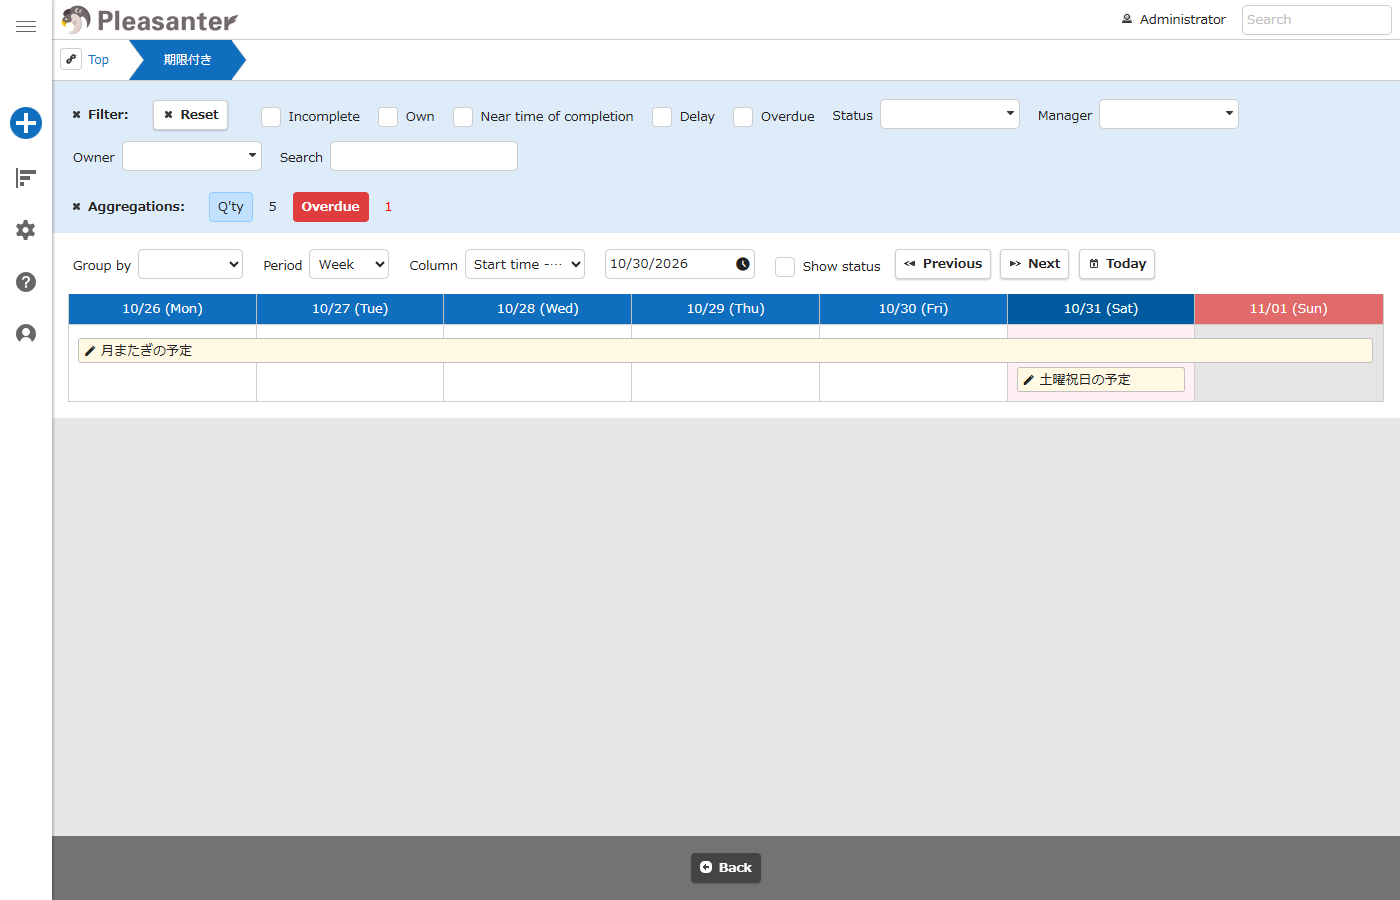
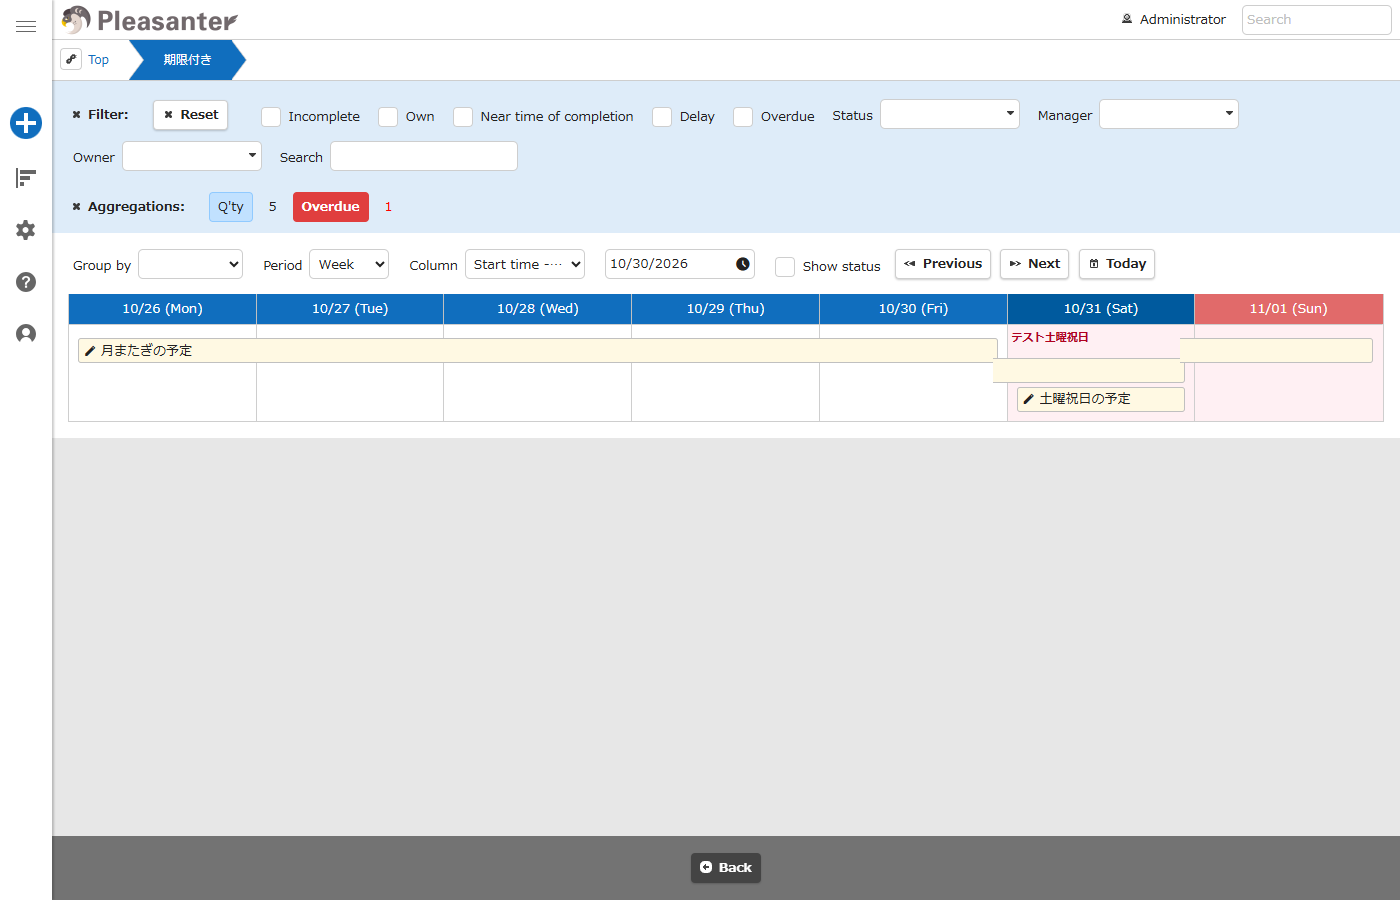
標準カレンダーの週表示に祝日名を出し、/p で出力先を決められるようにする
- 週表示のセル先頭（::before）に祝日名を出す。月をまたぐ日にも色を付ける
- generate の出力先を /p（本体フォルダ）または兄弟の Implem.Pleasanter から決める
- 実機（Docker）で標準 359 項目・FullCalendar 251 項目を再確認

Changed region(s): [[0.7064, 0.3422, 1.0, 0.4667]]

diff --git a/src/CalendarStyleCreator/Options.cs b/src/CalendarStyleCreator/Options.cs
@@ -12,8 +12,8 @@ public sealed record Options(string Action, IReadOnlyList<string> CsvPaths, IRea
     public const string IcalBasicPasswordVariable = "CALENDARSTYLE_ICAL_BASIC_PASSWORD";
     public const string PleasanterApiKeyVariable = "CALENDARSTYLE_PLEASANTER_API_KEY";
 
-    private static readonly string[] ValueOptions = ["config", "csv", "calendar-id", "ical-url", "from", "to", "name", "site-id", "output", "url", "holiday-bg", "saturday-bg", "holiday-text", "saturday-text"];
-    private static readonly string[] PathOptions = ["config", "csv", "output"];
+    private static readonly string[] ValueOptions = ["config", "p", "csv", "calendar-id", "ical-url", "from", "to", "name", "site-id", "output", "url", "holiday-bg", "saturday-bg", "holiday-text", "saturday-text"];
+    private static readonly string[] PathOptions = ["config", "p", "csv", "output"];
 
     /// <summary>優先順位は コマンドライン &gt; 設定ファイル（/config）&gt; 既定値。</summary>
     public static Options Parse(string[] args)
@@ -52,13 +52,26 @@ public sealed record Options(string Action, IReadOnlyList<string> CsvPaths, IRea
 
         var defaults = config.Theme ?? new CalendarTheme();
         var theme = new CalendarTheme(V("holiday-bg") ?? defaults.HolidayBackground, V("saturday-bg") ?? defaults.SaturdayBackground, V("holiday-text") ?? defaults.HolidayText, V("saturday-text") ?? defaults.SaturdayText).Validate();
-        var options = new Options(action, csv, calendars, icalUrls, Year("from", config.From), Year("to", config.To), V("name") ?? config.Name ?? DefaultName, sites, V("output") ?? config.Output, V("url") ?? config.PleasanterUrl, theme);
+        var output = V("output") ?? config.Output ?? (action == "generate" ? FindExtendedStylesFolder(V("p") ?? config.PleasanterPath) : null);
+        var options = new Options(action, csv, calendars, icalUrls, Year("from", config.From), Year("to", config.To), V("name") ?? config.Name ?? DefaultName, sites, output, V("url") ?? config.PleasanterUrl, theme);
         if (options.CsvPaths.Count == 0 && options.CalendarIds.Count == 0 && options.IcalUrls.Count == 0) throw new UserError("Specify /calendar-id, /ical-url, /csv or /config.");
         if (options.FromYear > options.ToYear) throw new UserError("/from must not be later than /to.");
-        if (action == "generate" && options.Output == null) throw new UserError("generate requires /output (or output in the config file).");
+        if (action == "generate" && options.Output == null) throw new UserError("generate requires /output, /p, or an Implem.Pleasanter folder beside this tool.");
         if (action == "register" && options.PleasanterUrl == null) throw new UserError("register requires /url (or pleasanterUrl in the config file).");
         if (action == "generate" && options.SiteIds.Count > 0) throw new UserError("generate (file placement) applies to all sites. Use register to limit the style to specific sites.");
         if (action == "register") ApiStyleSink.ValidateBaseUrl(options.PleasanterUrl!);
         return options;
+    }
+
+    /// <summary>
+    /// 出力先の既定。/p は CodeDefiner と同じく本体フォルダ（App_Data を持つ Implem.Pleasanter、またはその親）。
+    /// 省略時は、このツールの兄弟フォルダ Implem.Pleasanter を探す（配布 ZIP の既定の配置）。見つからなければ null。
+    /// </summary>
+    public static string? FindExtendedStylesFolder(string? pleasanterPath, string? toolFolder = null)
+    {
+        static string? Styles(string folder) => Directory.Exists(Path.Combine(folder, "App_Data")) ? Path.Combine(folder, "App_Data", "Parameters", "ExtendedStyles") : null;
+        if (pleasanterPath != null)
+            return Styles(pleasanterPath) ?? Styles(Path.Combine(pleasanterPath, "Implem.Pleasanter")) ?? throw new UserError("/p must be the Pleasanter folder that contains App_Data.");
+        return Styles(Path.GetFullPath(Path.Combine(toolFolder ?? AppContext.BaseDirectory, "..", "Implem.Pleasanter")));
     }
 }

diff --git a/tests/CalendarStyleCreator.Tests/Program.cs b/tests/CalendarStyleCreator.Tests/Program.cs
@@ -63,6 +63,23 @@ using (var fakeClient = new HttpClient(fake))
 Reject(() => Options.Parse(["generate", "/csv", "h.csv", "/output", "o", "/site-id", "5"]), "generate rejects /site-id (file placement is all sites)");
 Check(Options.Parse(["register", "/csv", "h.csv", "/url", "https://pl.example.com", "/site-id", "5"]).SiteIds.SequenceEqual([5]), "register accepts /site-id");
 
+// /p（本体フォルダ）と既定の兄弟フォルダ
+var pRoot = Path.Combine(Path.GetTempPath(), "csc-p-" + Guid.NewGuid().ToString("N"));
+Directory.CreateDirectory(Path.Combine(pRoot, "web", "Implem.Pleasanter", "App_Data"));
+Directory.CreateDirectory(Path.Combine(pRoot, "web", "CalendarStyleCreator"));
+try
+{
+    var expected = Path.Combine(pRoot, "web", "Implem.Pleasanter", "App_Data", "Parameters", "ExtendedStyles");
+    Check(Options.FindExtendedStylesFolder(Path.Combine(pRoot, "web", "Implem.Pleasanter")) == expected, "/p accepts the Implem.Pleasanter folder");
+    Check(Options.FindExtendedStylesFolder(Path.Combine(pRoot, "web")) == expected, "/p accepts the parent of Implem.Pleasanter");
+    Check(Options.FindExtendedStylesFolder(null, Path.Combine(pRoot, "web", "CalendarStyleCreator")) == expected, "Default finds Implem.Pleasanter beside the tool");
+    Check(Options.FindExtendedStylesFolder(null, Path.Combine(pRoot, "other")) == null, "No default when Implem.Pleasanter is not beside the tool");
+    Reject(() => Options.FindExtendedStylesFolder(Path.Combine(pRoot, "nothing")), "/p without App_Data is rejected");
+    Check(Options.Parse(["generate", "/csv", "h.csv", "/p", Path.Combine(pRoot, "web")]).Output == expected, "generate derives the output from /p");
+    Check(Options.Parse(["generate", "/csv", "h.csv", "/p", Path.Combine(pRoot, "web"), "/output", "o"]).Output == "o", "/output overrides /p");
+}
+finally { Directory.Delete(pRoot, true); }
+
 // Config file
 var configDir = Path.Combine(Path.GetTempPath(), "csc-cfg-" + Guid.NewGuid().ToString("N"));
 Directory.CreateDirectory(configDir);

diff --git a/src/CalendarStyleCreator/CssGenerator.cs b/src/CalendarStyleCreator/CssGenerator.cs
@@ -82,6 +82,8 @@ public static class CssGenerator
             var label = $"content: \"{EscapeString(name)}\"; margin-left: 0.5em; font-size: 0.85em; font-weight: 600; white-space: nowrap;";
             var attribute = $"[data-date=\"{FullCalendarDate(date)}\"]";
             Rule([MonthlyCell(date) + " .day::after"], label);
+            // 標準カレンダーの週表示のセルには日付の数字（.day）がないため、セルの先頭に祝日名を出す。
+            Rule([WeeklyCell(date) + "::before"], label + $" display: block; margin: 0 0 0.25em 0; color: {theme.HolidayText};");
             Rule([$"{Full} td.fc-daygrid-day{attribute}:not(.fc-day-other) .fc-daygrid-day-top::after", $"{Full} th.fc-col-header-cell{attribute} .fc-col-header-cell-cushion::after", $"{Full} .fc-list-day{attribute} .fc-list-day-text::after"], label);
         }
         return css.ToString();
@@ -91,13 +93,16 @@ public static class CssGenerator
 
     private static string DataId(DateOnly date) => $"[data-id=\"{date.Year}/{date.Month}/{date.Day}\"]";
 
+    private static string WeeklyCell(DateOnly date) => $"{Standard} td.container.is-weekly{DataId(date)}";
+
     private static string MonthlyCell(DateOnly date) => $"{Standard} td.container:has(> div > .day){DataId(date)}:not(.other-month)";
 
     /// <summary>標準カレンダーの月表示・週表示のセル。年表示のセルは含めない。</summary>
     private static IEnumerable<string> StandardCell(DateOnly date)
     {
         yield return MonthlyCell(date);
-        yield return $"{Standard} td.container.is-weekly{DataId(date)}:not(.other-month)";
+        // 週表示では、表示中の 7 日すべてが見える日なので、月をまたぐ日（.other-month）にも色を付ける。
+        yield return WeeklyCell(date);
     }
 
     /// <summary>FullCalendar の日セルと、日・週表示の見出し。</summary>

diff --git a/src/CalendarStyleCreator/Program.cs b/src/CalendarStyleCreator/Program.cs
@@ -18,7 +18,7 @@ public static class Program
                 RuntimeLog.WriteLine($"""
                     CalendarStyleCreator {typeof(Program).Assembly.GetName().Version!.ToString(3)} - Pleasanter calendar holiday style generator
                     Usage: CalendarStyleCreator <action> [/config <file>] [options]
-                      generate                    Write ExtendedStyles/<name>.css (all sites); requires /output
+                      generate                    Write ExtendedStyles/<name>.css (all sites) to /output, or under /p, or beside this tool
                       register                    Register the extended style through the Extensions API; requires /url
                     /config <file.json>         Settings file (see README). Command-line options override it.
                     Options (same style as Implem.CodeDefiner: start with /, a value follows):
@@ -31,7 +31,9 @@ public static class Program
                       /holiday-bg /saturday-bg /holiday-text /saturday-text <color>   Colors (#rrggbb or name)
                       /name <name>                Extended style name (default: {Options.DefaultName})
                       /site-id <id,...>           register: apply to these sites only (default: all sites)
-                      /output <folder>            generate: ExtendedStyles folder
+                      /p <folder>                 generate: Pleasanter folder (Implem.Pleasanter); same as Implem.CodeDefiner
+                                                  Default: Implem.Pleasanter beside this tool
+                      /output <folder>            generate: ExtendedStyles folder (overrides /p)
                       /url <base url>             register: Pleasanter base URL (API key: env {Options.PleasanterApiKeyVariable})
                     """);
                 return 0;

diff --git a/src/CalendarStyleCreator/ConfigFile.cs b/src/CalendarStyleCreator/ConfigFile.cs
@@ -22,10 +22,11 @@ public sealed class ConfigFile
     public string? Name { get; private set; }
     public IReadOnlyList<long>? SiteIds { get; private set; }
     public string? Output { get; private set; }
+    public string? PleasanterPath { get; private set; }
     public string? PleasanterUrl { get; private set; }
     public CalendarTheme? Theme { get; private set; }
 
-    private static readonly string[] Keys = ["calendars", "icalUrls", "csv", "from", "to", "name", "siteIds", "output", "pleasanterUrl", "colors"];
+    private static readonly string[] Keys = ["calendars", "icalUrls", "csv", "from", "to", "name", "siteIds", "output", "pleasanterPath", "pleasanterUrl", "colors"];
     private static readonly string[] ColorKeys = ["holidayBackground", "saturdayBackground", "holidayText", "saturdayText"];
     private static readonly string[] IcalKeys = ["url", "bearerTokenEnv", "basicUserEnv", "basicPasswordEnv"];
 
@@ -57,6 +58,7 @@ public sealed class ConfigFile
                 case "name": config.Name = Str(value, "name"); break;
                 case "siteIds": config.SiteIds = value.ValueKind == JsonValueKind.Array ? value.EnumerateArray().Select(e => e.ValueKind == JsonValueKind.Number && e.TryGetInt64(out var id) && id > 0 ? id : throw new UserError("siteIds must be positive numbers.")).Distinct().ToList() : throw new UserError("siteIds must be an array."); break;
                 case "output": config.Output = Resolve(Str(value, "output")); break;
+                case "pleasanterPath": config.PleasanterPath = Resolve(Str(value, "pleasanterPath")); break;
                 case "pleasanterUrl": config.PleasanterUrl = Str(value, "pleasanterUrl"); break;
                 case "colors": config.Theme = ReadTheme(value); break;
             }

diff --git a/README.md b/README.md
@@ -8,7 +8,7 @@ Pleasanter のカレンダー表示で休日を色分け・名称表示するた
 
 - 日曜・祝日の背景色と日付の文字色（同じ色）
 - 土曜日の背景色と日付の文字色
-- 祝日名（標準カレンダーの月表示、FullCalendar の月・日・週・リスト表示）
+- 祝日名（標準カレンダーの月・週表示、FullCalendar の月・週・日・リスト表示）
 
 ## 配置方式
 
@@ -24,7 +24,7 @@ Pleasanter のカレンダー表示で休日を色分け・名称表示するた
 既定では、Google カレンダーの日本の祝日（`ja.japanese.official#holiday@group.v.calendar.google.com`）を使います。公開カレンダーなので API キーは不要です。
 
 ```powershell
-dotnet VehicleVision.PleasanterTools.CalendarStyleCreator.dll generate /output "C:\web\pleasanter\Implem.Pleasanter\App_Data\Parameters\ExtendedStyles"
+dotnet VehicleVision.PleasanterTools.CalendarStyleCreator.dll generate /p "C:\web\pleasanter\Implem.Pleasanter"
 ```
 
 | オプション | 内容 |
@@ -34,6 +34,8 @@ dotnet VehicleVision.PleasanterTools.CalendarStyleCreator.dll generate /output "
 | `/csv <file>` | CSV からも読む。同じ日付は CSV が優先 |
 | `/from 2026 /to 2027` | 出力する年の範囲（既定: 今年と来年）。範囲外の休日と土日は出力しない |
 | `/holiday-bg` `/saturday-bg` `/holiday-text` `/saturday-text` | 色（`#rrggbb` または色名） |
+| `/p <フォルダ>` | `generate` の出力先を、本体フォルダ（`App_Data` のある `Implem.Pleasanter` またはその親）から決める。CodeDefiner と同じ指定。省略時は、このツールの兄弟フォルダ `Implem.Pleasanter` を使う |
+| `/output <フォルダ>` | `generate` の出力先を直接指定（`/p` より優先） |
 | `/site-id 1,2` | 適用サイトを限定（`register` のみ。省略時は全サイト） |
 | `/name` | 拡張スタイル名（既定: `CalendarHolidays`） |
 

diff --git a/_development/検証記録.md b/_development/検証記録.md
@@ -29,7 +29,7 @@
 | 土曜の祝日（2026-10-31）が祝日色になる | OK |
 | 日曜の祝日（2026-10-25）が祝日色で祝日名が付く | OK |
 | 年表示のセル（`data-id` が月初日。2026-11-01 日曜、2027-01-01 祝日を含む）に色・祝日名が付かず、`.day` を持たない | OK |
-| 週表示（`td.container.is-weekly`）の背景色（土日・祝日・土曜祝日） | OK（週表示のセルには日付の数字も祝日名もなく、背景色だけが対象） |
+| 週表示（`td.container.is-weekly`）の背景色（土日・祝日・土曜祝日）と、セル先頭の祝日名（`::before`）。月をまたぐ日（11/1 日曜）にも色が付く | OK（2026-10-17 の再検証で、祝日名の追加と月またぎの色付けを反映。標準 359 項目・FullCalendar 251 項目、NG 0） |
 | `FirstDayOfWeek` が 1（月曜始まり）と 0（日曜始まり）のどちらでも見出し順が切り替わり、土日の色が日付どおり | OK |
 
 ### FullCalendar
@@ -60,5 +60,5 @@
 - ダッシュボードの部品としてのカレンダー（接尾辞付き ID、`.grid-stack-item .CalendarBody`・`.grid-stack-item .fc`）での表示
 - 既定のテーマ（cerulean）以外の本体テーマ、既定以外の色指定（`CalendarTheme` を変えた場合）、他の本体版（1.5.8.1 のみ）
 - 標準カレンダーの `/from`・`/to` の範囲外の日付（範囲外は色が付かない設計で、実機では未確認）
-- 週表示（標準）・リスト表示（FullCalendar）で土日の色を付けるかどうかは未実装（現状は週表示の背景のみ・リストは祝日名のみ）
+- FullCalendar のリスト表示で土日の色は付けない（祝日名と祝日の見出しのみ）
 - ブラウザは Chrome（Windows）のみ。スマートフォン幅の表示は未確認

diff --git a/_development/E2E手順.md b/_development/E2E手順.md
@@ -75,7 +75,7 @@
 - 標準カレンダーの月・週・年表示、FullCalendar の月・週・日・リスト表示で、`verify.mjs` の NG が 0 件。
 - 日曜・祝日は同じ背景色と文字色、土曜は別の背景色と文字色。土曜の祝日（検証用 2026-10-31）は祝日の色。
 - 前月・翌月のはみ出し日（標準は `.other-month`、FullCalendar は `.fc-day-other`）に色が付かない。標準カレンダーの年表示のセル（`data-id` が月初日）に色と祝日名が付かない。
-- 標準カレンダーの月表示と FullCalendar の月・日表示・リストに祝日名が出る。標準カレンダーの週表示は背景色のみ。
+- 標準カレンダーの月表示（`.day::after`）・週表示（セル先頭の `::before`）と、FullCalendar の月・週・日表示・リストに祝日名が出る。標準カレンダーの週表示は月をまたぐ日にも色が付く。
 - `FirstDayOfWeek` を 0 にしても標準カレンダーの土日色が日付どおりに付く（FullCalendar は常に月曜始まり）。
 
 ## 本体の画面が変わったとき

diff --git a/_documents/AppService導入手順.md b/_documents/AppService導入手順.md
@@ -24,6 +24,8 @@ wwwroot/
 dotnet "%HOME%\site\wwwroot\CalendarStyleCreator\VehicleVision.PleasanterTools.CalendarStyleCreator.dll" generate /output "%HOME%\site\wwwroot\Implem.Pleasanter\App_Data\Parameters\ExtendedStyles"
 ```
 
+`Implem.Pleasanter` が `CalendarStyleCreator` の隣にある配置では、`/output` も省略できます（本体フォルダは `/p` でも指定できます。CodeDefiner と同じ指定です）。
+
 Linux の例です。
 
 ```bash
